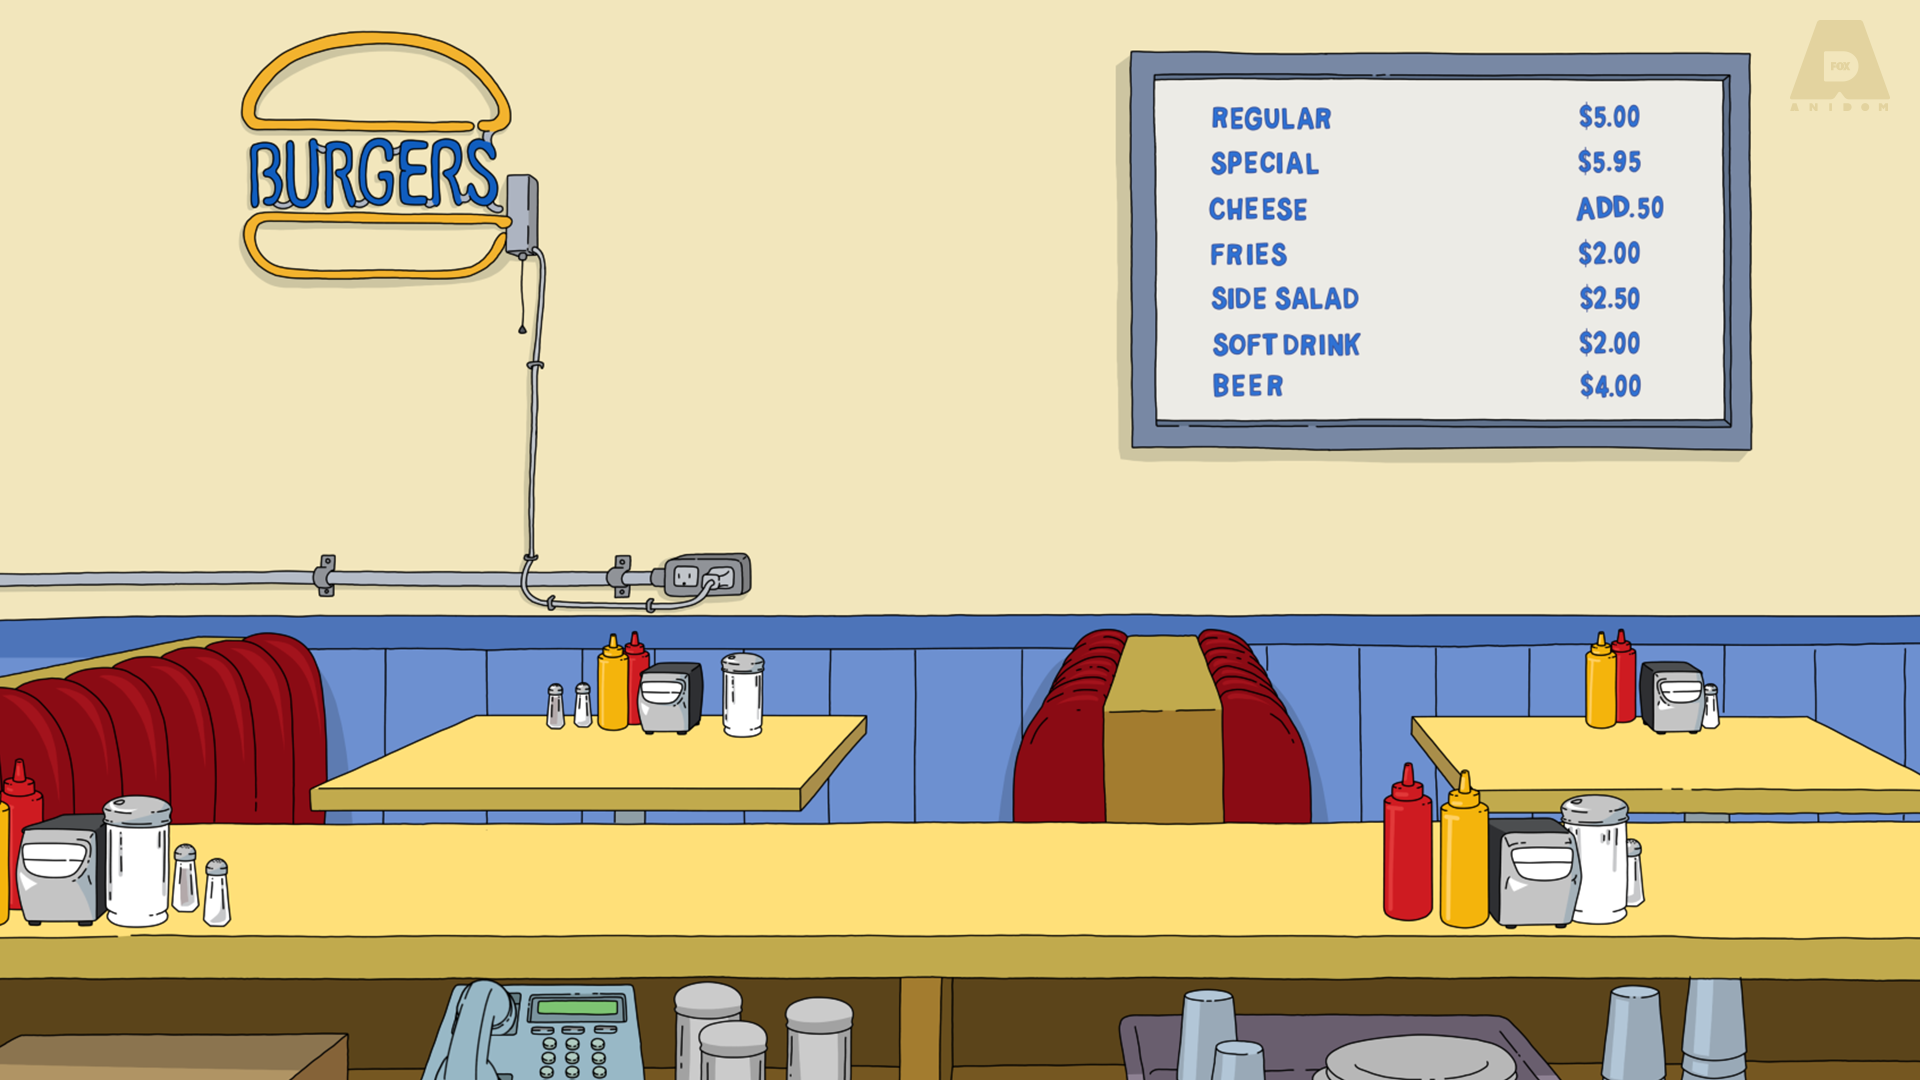
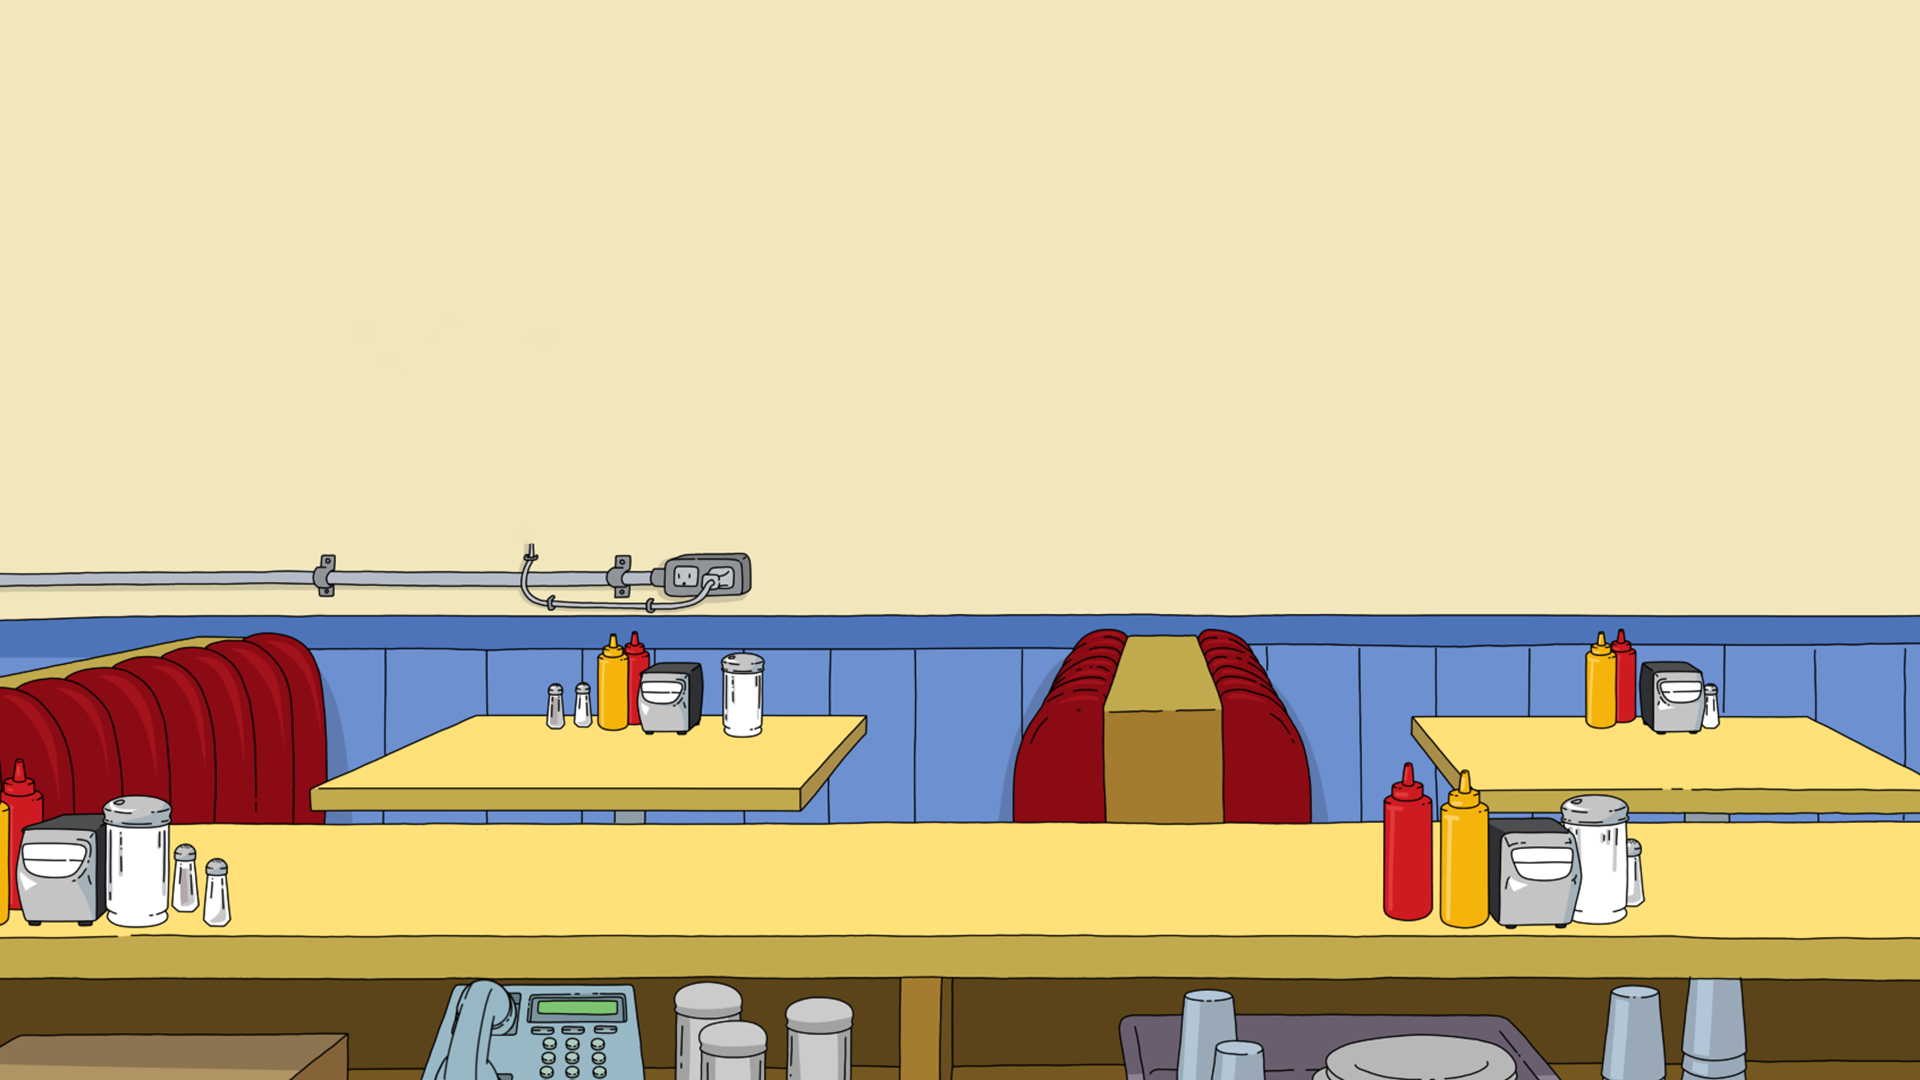
Updated

Changed region(s): [[0.5625, 0.0, 1.0, 0.4278], [0.125, 0.0306, 0.3125, 0.4889]]

diff --git a/public/assets/css/style.css b/public/assets/css/style.css
@@ -1,6 +1,5 @@
 body{
-    /* background-image: url("../images/bobs-background.png"); */
-    background-color: gainsboro;
+    background-image: url("../images/bobs-background.png");
     background-size: 100%;
     background-attachment: fixed;
 }
